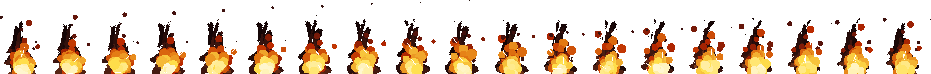
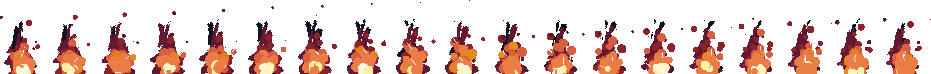
feat: add fire

diff --git a/MicroMarine/Scenes/SampleScene.cs b/MicroMarine/Scenes/SampleScene.cs
@@ -6,6 +6,7 @@ using Microsoft.Xna.Framework.Graphics;
 using MicroMarine.Components.Units;
 using Zand.Graphics.Lighting;
 using MicroMarine.Ui;
+using Zand.Components;
 
 namespace MicroMarine.Scenes
 
@@ -169,16 +170,20 @@ namespace MicroMarine.Scenes
             //Map = new TileMap(32, new Point(Config.MapWidth, Config.MapHeight), mapSpriteSheet, shipSpriteSheet);
 
             //Fire
-            //var fireSheet = new SpriteSheet(fireTexture, 49, 74);
-            //var fire = CreateEntity("fire", Map.Center.ToVector2() + new Vector2(80, -80));
-            //fire.Origin = new Vector2(fire.Dimensions.X / 2, fire.Dimensions.Y / 2);
-            //var fireAnimation = new Animator();
-            //fireAnimation.AddAnimation("burn", new Animation(fireTexture, fireSheet.GetFrames(0, 18), 19, Animation.LoopMode.Loop));
-            //fireAnimation.Play("burn");
-            //fire.AddComponent(fireAnimation);
 
-            //var light = new SimpleLight(fire, lightTexture, new Color(255, 230, 230), Vector2.One, flicker: true);
-            //Lighting.AddLight(light);
+            var fireObject = tiledMap.GetObject("MapObjects", "small-fire");
+
+            var fireSheet = new SpriteSheet(fireTexture, 49, 74);
+            var fire = CreateEntity("fire", fireObject.Position);
+            fire.Origin = new Vector2(24, 74);
+            var fireAnimation = new Animator();
+            fireAnimation.AddAnimation("burn", new Animation(fireTexture, fireSheet.GetFrames(0, 18), 19, Animation.LoopMode.Loop));
+            fireAnimation.Play("burn");
+            fire.AddComponent(fireAnimation);
+            fireAnimation.RenderLayer = 6;
+
+            var light = new SimpleLight(fire, lightTexture, new Color(255, 230, 230), Vector2.One, flicker: true);
+            Lighting.AddLight(light);
 
 
             // Place Marines

diff --git a/Zand/Assets/ObjectGroup.cs b/Zand/Assets/ObjectGroup.cs
@@ -1,5 +1,6 @@
 using Microsoft.Xna.Framework;
 using System.Xml;
+using System;
 using Zand.Colliders;
 
 namespace Zand.Assets
@@ -25,6 +26,19 @@ namespace Zand.Assets
             {
                 Objects[i] = new TiledObject(objectNodes[i]);
             }
+        }
+
+        public TiledObject GetObject(string name)
+        {
+            foreach (var tiledObject in Objects)
+            {
+                if (tiledObject.Name == name)
+                {
+                    return tiledObject;
+                }
+            }
+
+            throw new Exception($"Object '{name}' does not exits.");
         }
     }
 

diff --git a/Zand/Assets/TiledMap.cs b/Zand/Assets/TiledMap.cs
@@ -139,5 +139,23 @@ namespace Zand.Assets
 
             return null;
         }
+
+        public TiledObject GetObject(string groupName, string objectName)
+        {
+            return GetObjectGroup(groupName).GetObject(objectName);
+        }
+
+        private ObjectGroup GetObjectGroup(string name)
+        {
+            for (int i = 0; i < ObjectGroups.Count; i++)
+            {
+                if (ObjectGroups[i].Name == name)
+                {
+                    return ObjectGroups[i];
+                }
+            }
+
+            throw new Exception("Object Group not found.");
+        }
     }
 }
